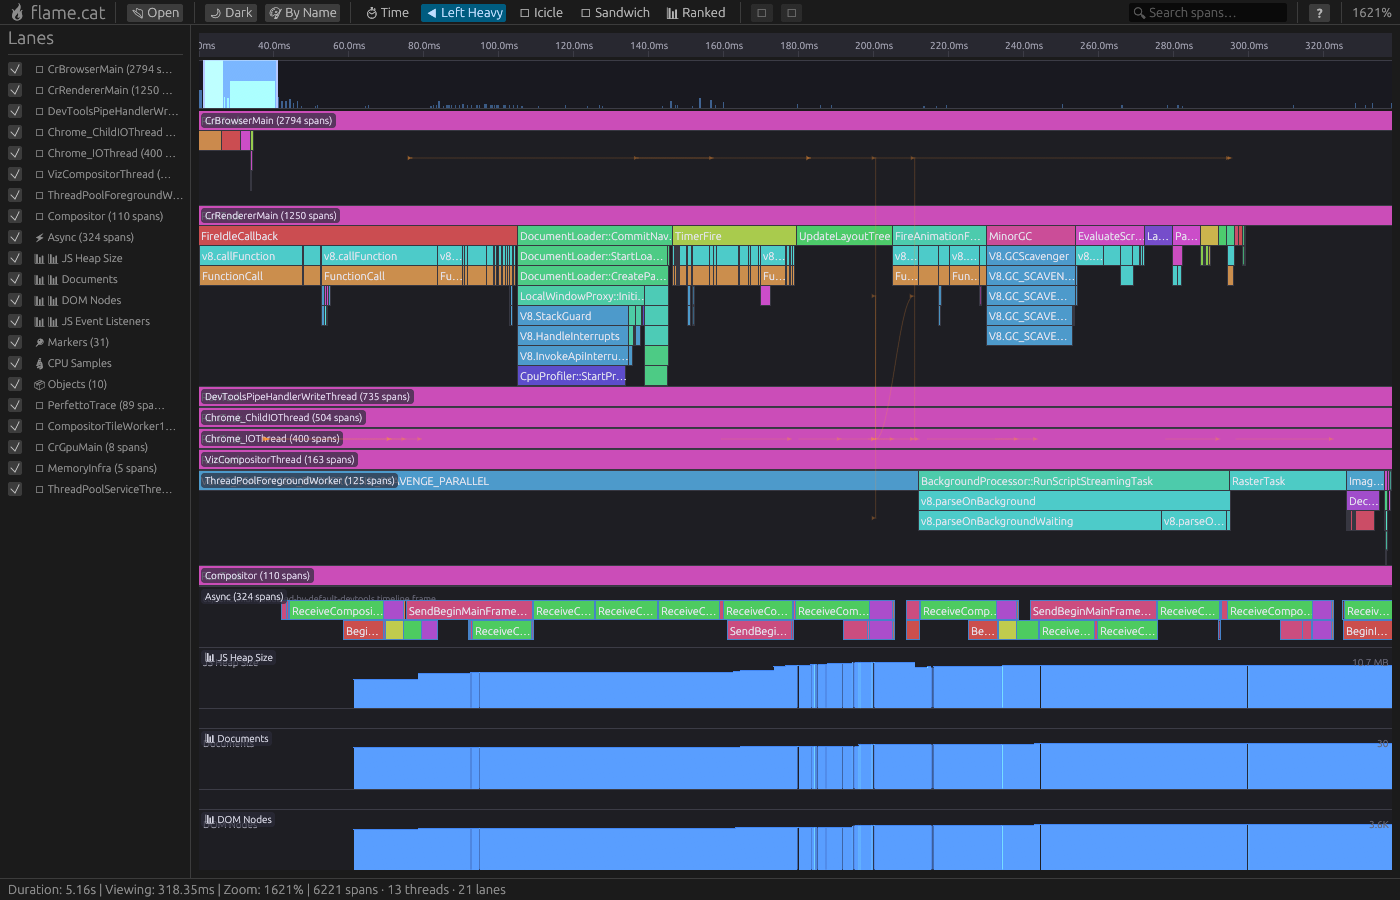
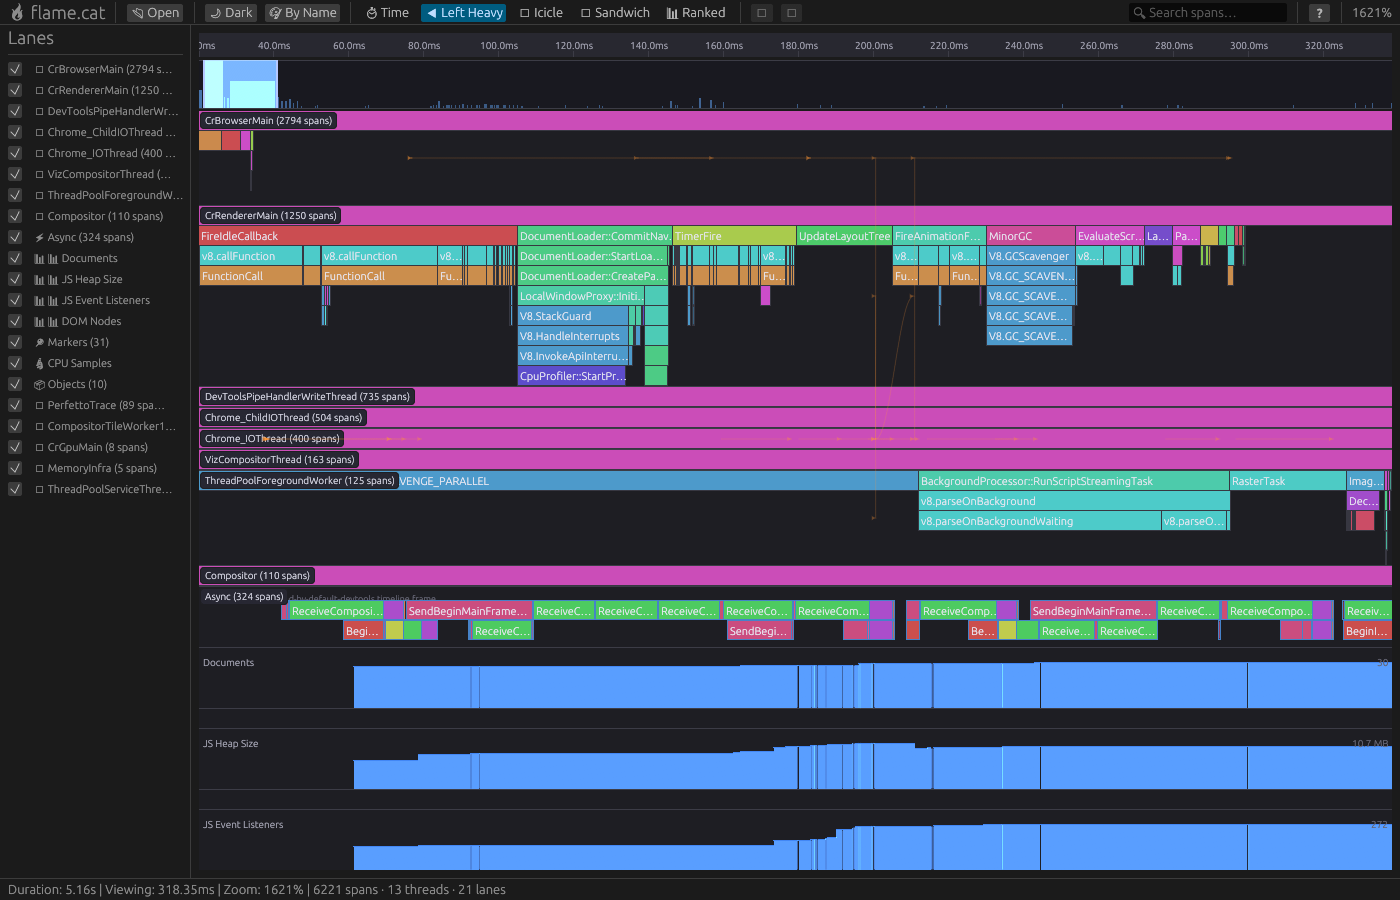
fix: eliminate double labels on counter/marker/specialty lanes
- Skip inline lane label for lane types that render their own title
  in render commands (Counter, Markers, CpuSamples, FrameTrack, ObjectTrack)
- Only Thread and Async lanes get the app-level inline label pill
- Opaque background behind lane labels to prevent text bleeding through
- Labels hidden when they don't fit vertically within the lane
- Retake all screenshots with fixes applied

diff --git a/crates/ui/src/app.rs b/crates/ui/src/app.rs
@@ -1848,7 +1848,17 @@ impl FlameApp {
 
                 painter.set_clip_rect(prev_clip);
 
-                // Inline lane label (subtle, top-left corner with background pill)
+                // Inline lane label (top-left corner with opaque background pill)
+                // Skip for lane types that render their own title in commands
+                let self_labeled = matches!(
+                    lane.kind,
+                    LaneKind::Counter(_)
+                        | LaneKind::Markers
+                        | LaneKind::CpuSamples
+                        | LaneKind::FrameTrack
+                        | LaneKind::ObjectTrack
+                );
+                if !self_labeled {
                 let label_text = &lane.name;
                 let label_font = egui::FontId::proportional(10.0);
                 let label_text_color = crate::theme::resolve(
@@ -1866,7 +1876,20 @@ impl FlameApp {
                     egui::pos2(available.left() + 2.0, lane_top + 2.0),
                     egui::vec2(label_w, label_h),
                 );
-                if label_rect.intersects(available) {
+                // Only draw if label fits within the lane vertically
+                if label_rect.bottom() <= lane_top + total_height
+                    && label_rect.intersects(available)
+                {
+                    // Opaque background to prevent text overlap with spans
+                    let lane_bg = crate::theme::resolve(
+                        flame_cat_protocol::ThemeToken::LaneBackground,
+                        self.theme_mode,
+                    );
+                    painter.rect_filled(
+                        label_rect.expand(1.0),
+                        egui::CornerRadius::same(3),
+                        lane_bg,
+                    );
                     let label_bg_color = crate::theme::resolve(
                         flame_cat_protocol::ThemeToken::InlineLabelBackground,
                         self.theme_mode,
@@ -1879,9 +1902,10 @@ impl FlameApp {
                     painter.galley(
                         egui::pos2(available.left() + 6.0, lane_top + 4.0),
                         label_galley,
-                        egui::Color32::TRANSPARENT, // color already in galley
+                        egui::Color32::TRANSPARENT,
                     );
                 }
+                } // end !self_labeled
 
                 // Lane border
                 let border_color = crate::theme::resolve(
